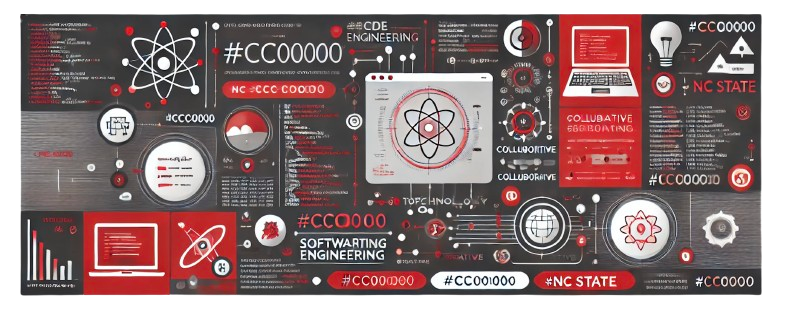
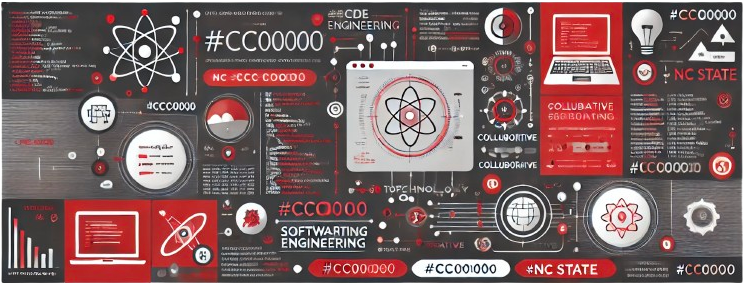
push

diff --git a/LICENSE.md b/LICENSE.md
@@ -1,6 +1,6 @@
 <p><a name=top> </a>&nbsp;</p>
-<img align="right" width="300" src="/img/banner.png"> 
-<h1> :cyclone: CSC510: Software Engineering<br>NC State, Spring '25</h1>
+<img src="/img/banner2.png"> 
+<h1> :cyclone:&nbsp;CSC510: Software&nbsp;Engineering<br>NC&nbsp;State, Spring&nbsp;'25</h1>
 <p>
     <a 
     href="/README.md#top"><img 
@@ -12,14 +12,10 @@
     href="https://moodle-courses2425.wolfware.ncsu.edu/course/view.php?id=7150"><img 
     src="https://img.shields.io/badge/Moodle-%23dc143c?style=for-the-badge&logo=moodle&logoColor=white"></a><a 
     href="https://discord.gg/DkaZw4zM"><img 
-    src="https://img.shields.io/badge/Discord-%23008080?style=for-the-badge&logo=discord&logoColor=white"></a>
+    src="https://img.shields.io/badge/Discord-%23008080?style=for-the-badge&logo=discord&logoColor=white"></a><a 
+    href="/LICENSE.md"><img 
+    src="https://img.shields.io/badge/(c)%20Tim%20Menzies,%202025-%234b4b4b?style=for-the-badge&logoColor=white"></a>
 </p>
-<p>
-&copy;2025 <a href="http://timm.fyi" rel="cc:attributionURL dct:creator" property="cc:attributionName">Tim Menzies</a> 
-<br> <a href="https://creativecommons.org/licenses/by-sa/4.0/?ref=chooser-v1" target="_blank" rel="license noopener noreferrer" style="display:inline-block;">CC BY-SA 4.0</a>
-<img style="height:22px!important;margin-left:3px;vertical-align:text-bottom;" src="https://mirrors.creativecommons.org/presskit/icons/cc.svg?ref=chooser-v1" alt="">
-<img style="height:22px!important;margin-left:3px;vertical-align:text-bottom;" src="https://mirrors.creativecommons.org/presskit/icons/by.svg?ref=chooser-v1" alt="">
-<img style="height:22px!important;margin-left:3px;vertical-align:text-bottom;" src="https://mirrors.creativecommons.org/presskit/icons/sa.svg?ref=chooser-v1" alt=""></p>
 <br clear=all>
       
 

diff --git a/docs/arch-scaleable.md b/docs/arch-scaleable.md
@@ -1,5 +1,5 @@
 <p><a name=top> </a>&nbsp;</p>
-<img align="right" width="300" src="/img/banner.png"> 
+<img src="/img/banner2.png"> 
 <h1> :cyclone:&nbsp;CSC510: Software&nbsp;Engineering<br>NC&nbsp;State, Spring&nbsp;'25</h1>
 <p>
     <a 

diff --git a/docs/essay.md b/docs/essay.md
@@ -1,5 +1,5 @@
 <p><a name=top> </a>&nbsp;</p>
-<img align="right" width="300" src="/img/banner.png"> 
+<img src="/img/banner2.png"> 
 <h1> :cyclone:&nbsp;CSC510: Software&nbsp;Engineering<br>NC&nbsp;State, Spring&nbsp;'25</h1>
 <p>
     <a 

diff --git a/docs/ethics.md b/docs/ethics.md
@@ -1,5 +1,5 @@
 <p><a name=top> </a>&nbsp;</p>
-<img align="right" width="300" src="/img/banner.png"> 
+<img src="/img/banner2.png"> 
 <h1> :cyclone:&nbsp;CSC510: Software&nbsp;Engineering<br>NC&nbsp;State, Spring&nbsp;'25</h1>
 <p>
     <a 

diff --git a/docs/hw01.md b/docs/hw01.md
@@ -1,5 +1,5 @@
 <p><a name=top> </a>&nbsp;</p>
-<img align="right" width="300" src="/img/banner.png"> 
+<img src="/img/banner2.png"> 
 <h1> :cyclone:&nbsp;CSC510: Software&nbsp;Engineering<br>NC&nbsp;State, Spring&nbsp;'25</h1>
 <p>
     <a 

diff --git a/docs/hw1.md b/docs/hw1.md
@@ -1,5 +1,5 @@
 <p><a name=top> </a>&nbsp;</p>
-<img align="right" width="300" src="/img/banner.png"> 
+<img src="/img/banner2.png"> 
 <h1> :cyclone:&nbsp;CSC510: Software&nbsp;Engineering<br>NC&nbsp;State, Spring&nbsp;'25</h1>
 <p>
     <a 

diff --git a/docs/index.md b/docs/index.md
@@ -1,5 +1,5 @@
 <p><a name=top> </a>&nbsp;</p>
-<img align="right" width="300" src="/img/banner.png"> 
+<img src="/img/banner2.png"> 
 <h1> :cyclone:&nbsp;CSC510: Software&nbsp;Engineering<br>NC&nbsp;State, Spring&nbsp;'25</h1>
 <p>
     <a 

diff --git a/docs/proj1.md b/docs/proj1.md
@@ -1,5 +1,5 @@
 <p><a name=top> </a>&nbsp;</p>
-<img align="right" width="300" src="/img/banner.png"> 
+<img src="/img/banner2.png"> 
 <h1> :cyclone:&nbsp;CSC510: Software&nbsp;Engineering<br>NC&nbsp;State, Spring&nbsp;'25</h1>
 <p>
     <a 

diff --git a/docs/proj23.md b/docs/proj23.md
@@ -1,5 +1,5 @@
 <p><a name=top> </a>&nbsp;</p>
-<img align="right" width="300" src="/img/banner.png"> 
+<img src="/img/banner2.png"> 
 <h1> :cyclone:&nbsp;CSC510: Software&nbsp;Engineering<br>NC&nbsp;State, Spring&nbsp;'25</h1>
 <p>
     <a 

diff --git a/docs/requirements.md b/docs/requirements.md
@@ -1,5 +1,5 @@
 <p><a name=top> </a>&nbsp;</p>
-<img align="right" width="300" src="/img/banner.png"> 
+<img src="/img/banner2.png"> 
 <h1> :cyclone:&nbsp;CSC510: Software&nbsp;Engineering<br>NC&nbsp;State, Spring&nbsp;'25</h1>
 <p>
     <a 

diff --git a/docs/syllabus.md b/docs/syllabus.md
@@ -1,5 +1,5 @@
 <p><a name=top> </a>&nbsp;</p>
-<img align="right" width="300" src="/img/banner.png"> 
+<img src="/img/banner2.png"> 
 <h1> :cyclone:&nbsp;CSC510: Software&nbsp;Engineering<br>NC&nbsp;State, Spring&nbsp;'25</h1>
 <p>
     <a 
